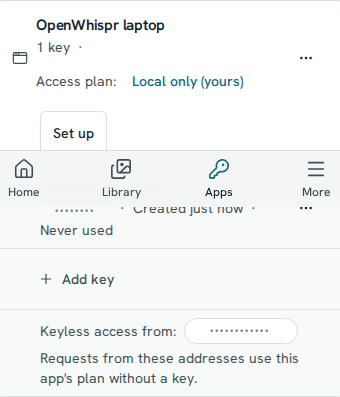
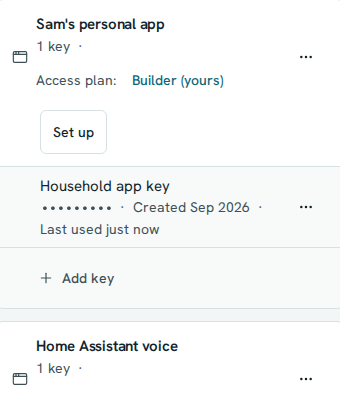
Recapture the phone proof above the bottom navigation
The phone proof was cut from a full-page screenshot. A full-page capture draws fixed elements at their place in the first viewport, so the mobile tab bar appeared in the middle of the image over the key rows. The app is not at fault: a 390 px viewport capture puts the tab bar at the bottom edge.

Both proofs now come from viewport captures of the seeded household demo, which has synthetic owners and apps. The phone crop ends above the navigation and above a transient "Picture is ready" notice, so neither overlaps the content. The key prefixes are masked with nine muted bullets, as before. The app shown is now Sam's personal app, so the alt text and DESIGN.md describe that card. The keyless-access row from the old capture is no longer shown.

diff --git a/DESIGN.md b/DESIGN.md
@@ -74,4 +74,4 @@ The site respects system light and dark preferences, keyboard focus, reduced mot
 
 ## Evidence
 
-The landing page uses light and dark crops of the seeded Apps & Keys screen, captioned “Apps & keys, with demo data.” The desktop crop is 1100×245px from the 1440px capture; the phone crop is 340×397px from the 390px capture. The phone capture keeps its ellipsis row action and fixed bottom navigation. Masked key prefixes and the private address appear as muted bullet runs in monospace on their row backgrounds; no real values appear in the distributed images. No testimonials, counts, live statuses, example costs, timings, or generated replies are used as proof.
+The landing page uses light and dark crops of the seeded Apps & Keys screen, captioned “Apps & keys, with demo data.” The desktop crop is 1100×245px from the 1440px viewport capture; the phone crop is 340×397px from the 390px viewport capture. A viewport capture, not a full-page one, keeps the fixed bottom navigation where a phone shows it. The phone crop ends above that navigation and above transient notices, so no tab bar or toast sits over the content. Masked key prefixes appear as nine muted bullets in monospace on their row backgrounds; no real values appear in the distributed images. No testimonials, counts, live statuses, example costs, timings, or generated replies are used as proof.
